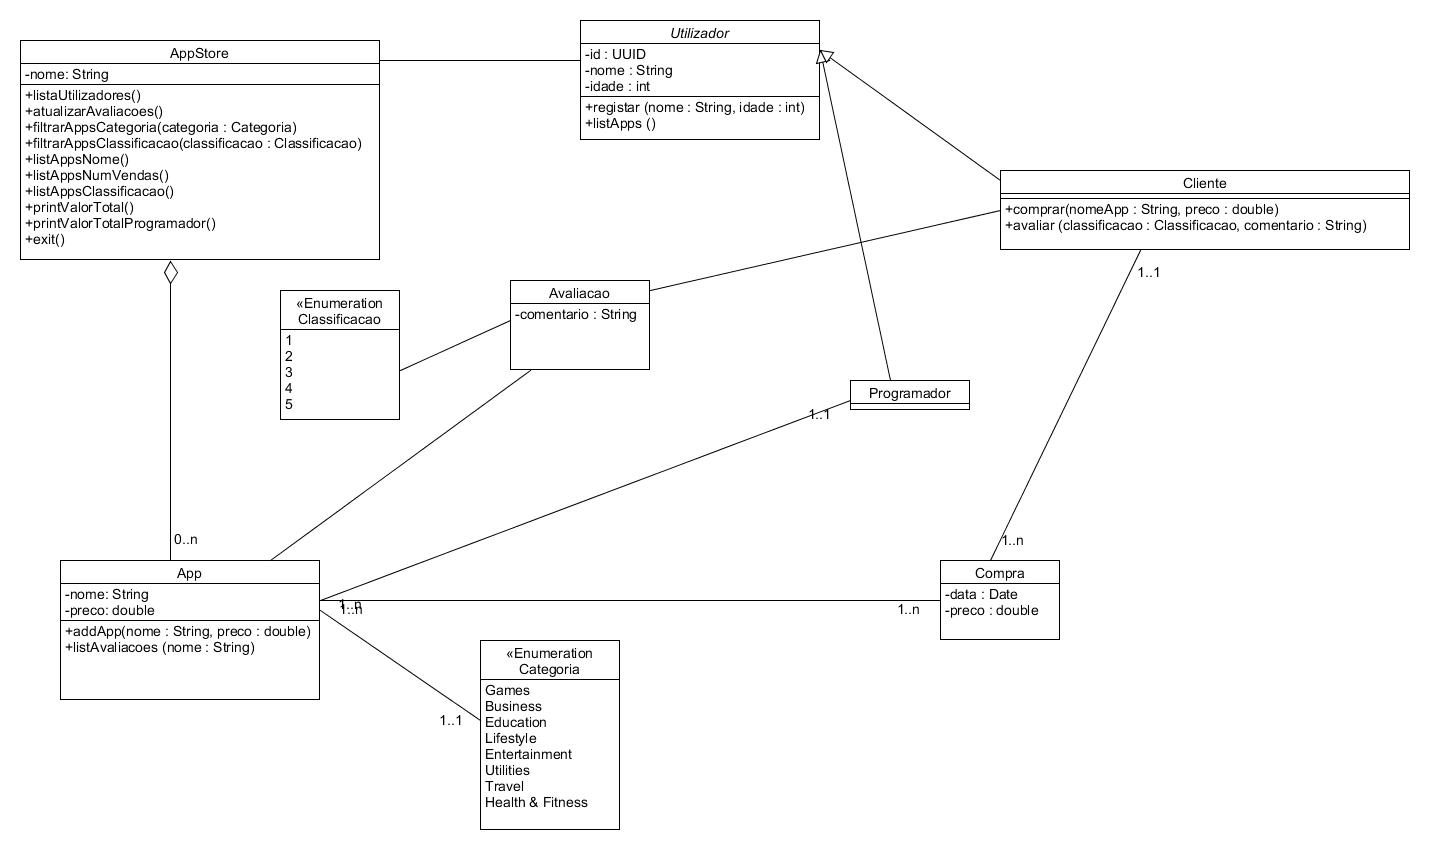
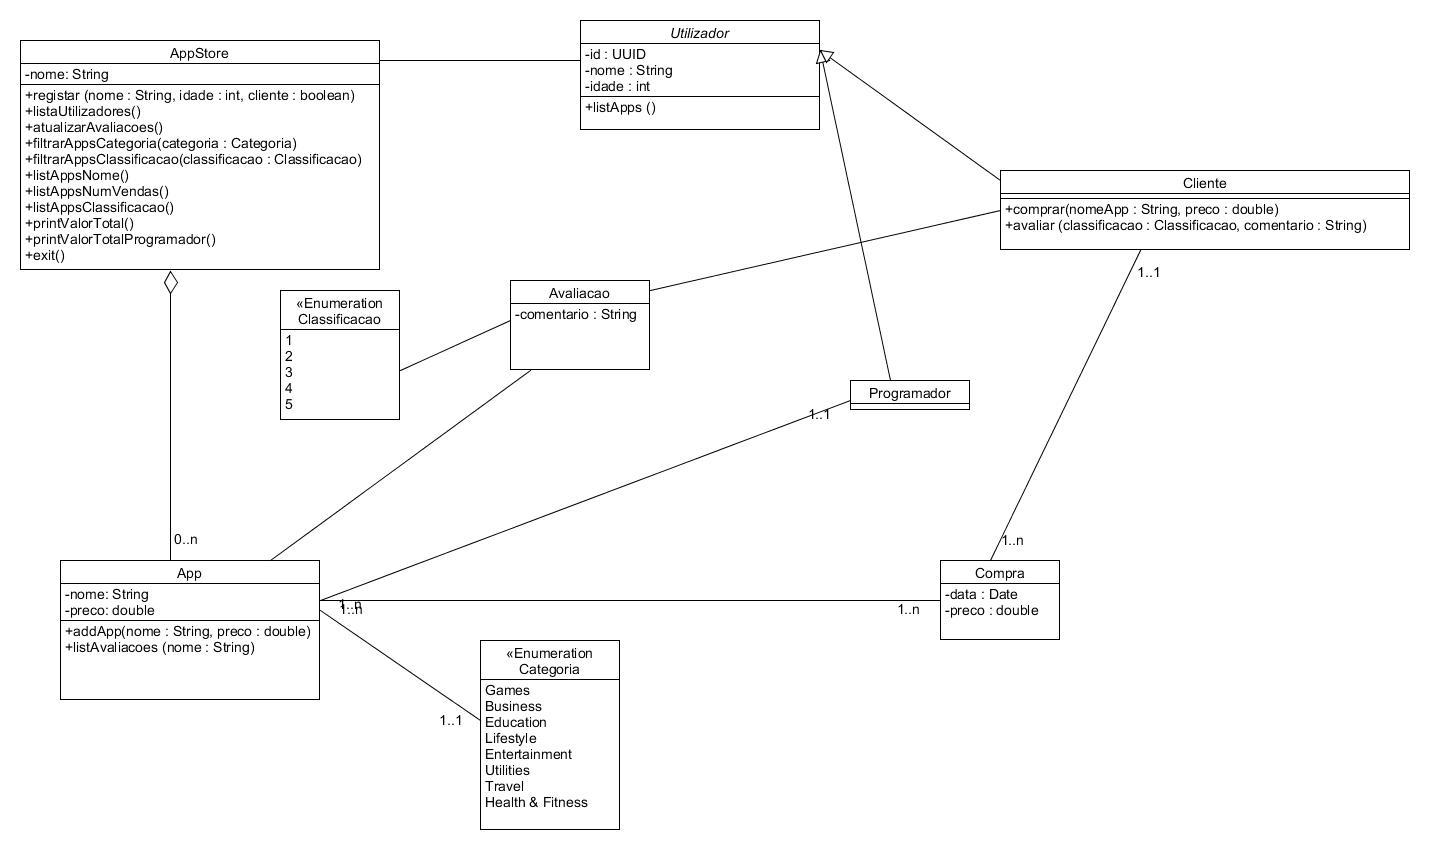
act

Changed region(s): [[0.0, 0.0918, 0.2462, 0.3365], [0.4, 0.1224, 0.5538, 0.1529]]

diff --git a/src/projetoExtra/Main.java b/src/projetoExtra/Main.java
@@ -3,8 +3,43 @@ package projetoExtra;
 public class Main {
 
 	public static void main(String[] args) {
-		// TODO Auto-generated method stub
+		
+		String nome = "MadApp";
+		
+		AppStore store = new AppStore (nome);
+		
+		printMenu(nome);
 
 	}
+	
+	public static void printMenu (String nome)
+	{
+	
+		System.out.println("╔=======  Bemvinda/o ao menu da AppStore  =======╗");
+		System.out.println("║"+ returnSpaces((45 -nome.length()) /2) + nome + 
+					returnSpaces((45 -nome.length()) /2) + "║");	
+		System.out.println("╠================================================╣");
+		System.out.println("║                                                ║");
+		System.out.println("║              Escolha uma opção                 ║");
+		System.out.println("╠================================================╣");
+		System.out.println("║                                                ║");
+		System.out.println("║       0 -Sair                                  ║");
+		System.out.println("║                                                ║");
+		System.out.println("╚================================================╝");
 
+	}
+	
+	public static String returnSpaces (int num)
+	{
+		String spaces = "";
+		
+		int i;
+		for (i = 0; i> num; i++)
+		{
+			spaces += " ";
+		}
+		
+		return spaces;
+	}
+	
 }

diff --git a/src/projetoExtra/AppStore.java b/src/projetoExtra/AppStore.java
@@ -1,0 +1,29 @@
+package projetoExtra;
+
+public class AppStore {
+	
+	private String nome;
+
+	/**
+	 * @param nome
+	 */
+	public AppStore(String nome) {
+		this.nome = nome;
+	}
+
+	/**
+	 * @return the nome
+	 */
+	public String getNome() {
+		return nome;
+	}
+
+	/**
+	 * @param nome the nome to set
+	 */
+	public void setNome(String nome) {
+		this.nome = nome;
+	}
+	
+	
+}

diff --git a/src/projetoExtra/MyUtils.java b/src/projetoExtra/MyUtils.java
@@ -1,0 +1,5 @@
+package projetoExtra;
+
+public class MyUtils {
+
+}
